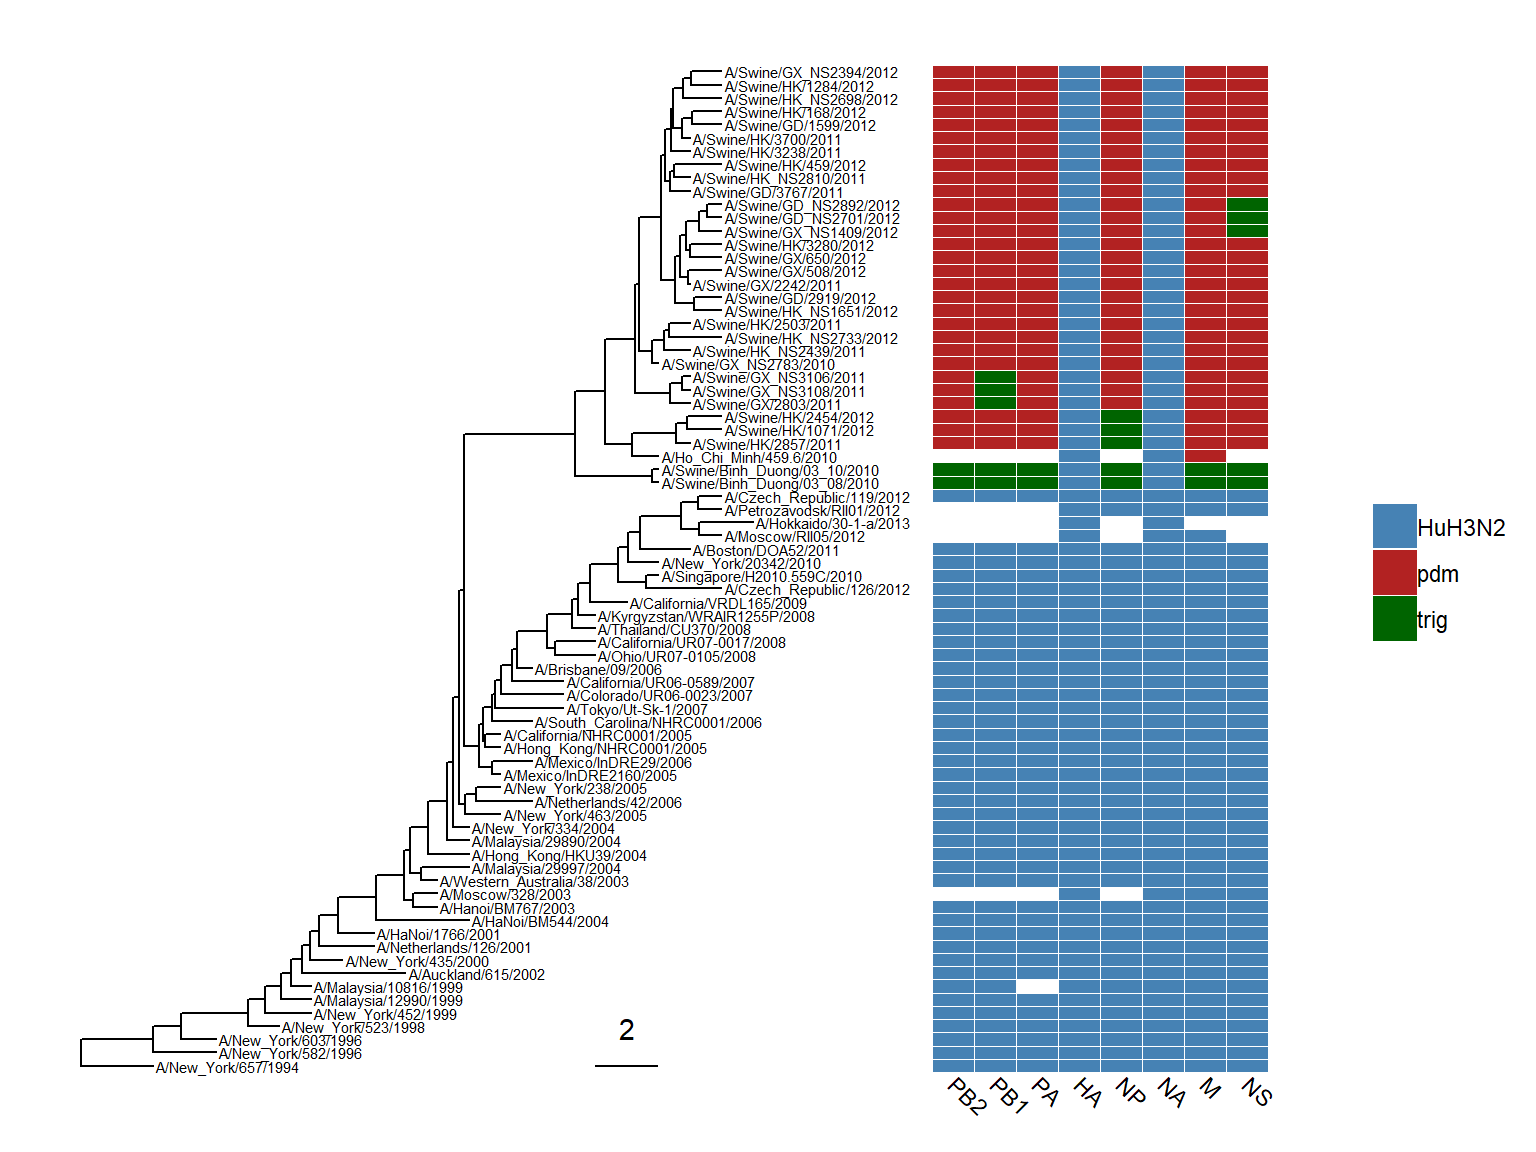
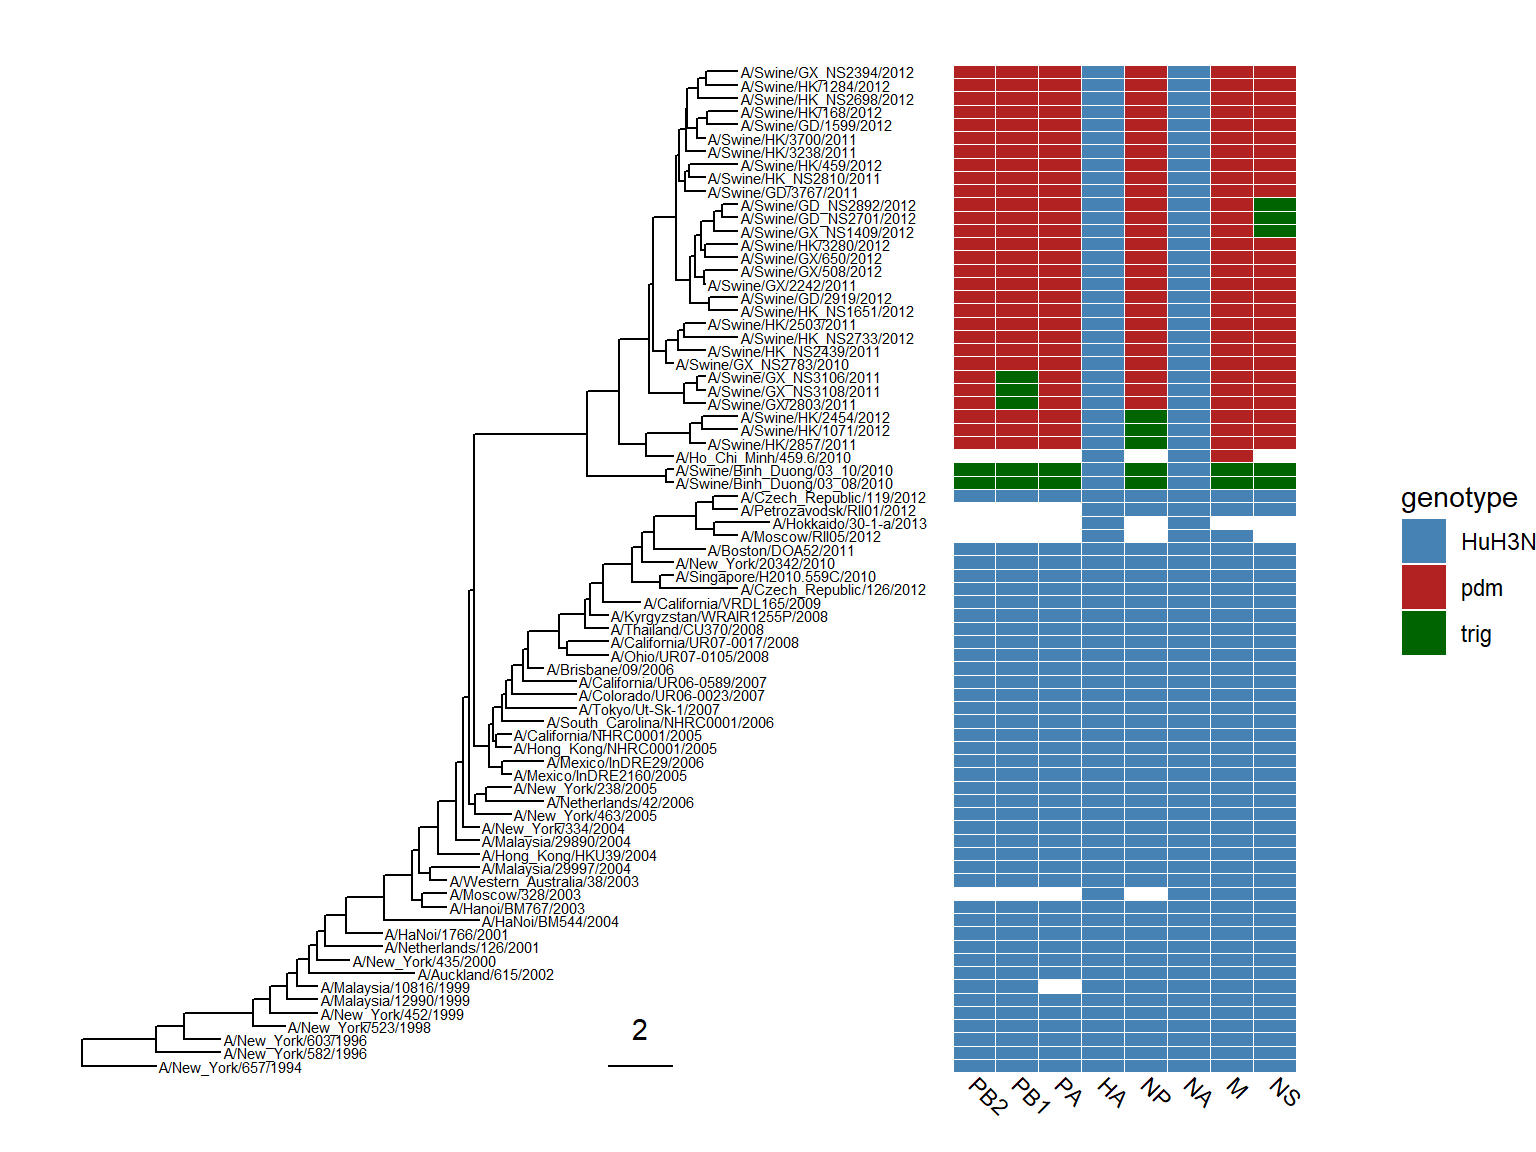
legend title

diff --git a/docs/chapter7.html b/docs/chapter7.html
@@ -508,17 +508,18 @@ genotype &lt;-<span class="st"> </span><span class="kw">read.table</span>(genoty
 <span class="kw">colnames</span>(genotype) &lt;-<span class="st"> </span><span class="kw">sub</span>(<span class="st">&quot;</span><span class="ch">\\</span><span class="st">.$&quot;</span>, <span class="st">&quot;&quot;</span>, <span class="kw">colnames</span>(genotype))
 p &lt;-<span class="st"> </span><span class="kw">ggtree</span>(beast_tree, <span class="dt">mrsd=</span><span class="st">&quot;2013-01-01&quot;</span>) <span class="op">+</span><span class="st"> </span><span class="kw">geom_treescale</span>(<span class="dt">x=</span><span class="dv">2008</span>, <span class="dt">y=</span><span class="dv">1</span>, <span class="dt">offset=</span><span class="dv">2</span>)
 p &lt;-<span class="st"> </span>p <span class="op">+</span><span class="st"> </span><span class="kw">geom_tiplab</span>(<span class="dt">size=</span><span class="dv">2</span>)
-<span class="kw">gheatmap</span>(p, genotype, <span class="dt">offset=</span><span class="dv">5</span>, <span class="dt">width=</span><span class="fl">0.5</span>, <span class="dt">font.size=</span><span class="dv">3</span>, <span class="dt">colnames_angle=</span><span class="op">-</span><span class="dv">45</span>, <span class="dt">hjust=</span><span class="dv">0</span>) <span class="op">+</span>
-<span class="st">    </span><span class="kw">scale_fill_manual</span>(<span class="dt">breaks=</span><span class="kw">c</span>(<span class="st">&quot;HuH3N2&quot;</span>, <span class="st">&quot;pdm&quot;</span>, <span class="st">&quot;trig&quot;</span>), <span class="dt">values=</span><span class="kw">c</span>(<span class="st">&quot;steelblue&quot;</span>, <span class="st">&quot;firebrick&quot;</span>, <span class="st">&quot;darkgreen&quot;</span>))</code></pre>
+<span class="kw">gheatmap</span>(p, genotype, <span class="dt">offset=</span><span class="dv">5</span>, <span class="dt">width=</span><span class="fl">0.5</span>, <span class="dt">font.size=</span><span class="dv">3</span>, 
+        <span class="dt">colnames_angle=</span><span class="op">-</span><span class="dv">45</span>, <span class="dt">hjust=</span><span class="dv">0</span>) <span class="op">+</span>
+<span class="st">    </span><span class="kw">scale_fill_manual</span>(<span class="dt">breaks=</span><span class="kw">c</span>(<span class="st">&quot;HuH3N2&quot;</span>, <span class="st">&quot;pdm&quot;</span>, <span class="st">&quot;trig&quot;</span>), 
+        <span class="dt">values=</span><span class="kw">c</span>(<span class="st">&quot;steelblue&quot;</span>, <span class="st">&quot;firebrick&quot;</span>, <span class="st">&quot;darkgreen&quot;</span>), <span class="dt">name=</span><span class="st">&quot;genotype&quot;</span>)</code></pre>
 <p><img src="treedata_files/figure-html/unnamed-chunk-116-1.png" width="768" style="display: block; margin: auto;" /></p>
 <p>The <em>width</em> parameter is to control the width of the heatmap. It supports another parameter <em>offset</em> for controlling the distance between the tree and the heatmap, for instance to allocate space for tip labels.</p>
 <p>For time-scaled tree, as in this example, it’s more often to use <code>x</code> axis by using <code>theme_tree2</code>. But with this solution, the heatmap is just another layer and will change the <code>x</code> axis. To overcome this issue, we implemented <code>scale_x_ggtree</code> to set the x axis more reasonable.</p>
 <!-- User can also use `gplot` and tweak the positions of two plot to align properly. -->
 <pre class="sourceCode r"><code class="sourceCode r">p &lt;-<span class="st"> </span><span class="kw">ggtree</span>(beast_tree, <span class="dt">mrsd=</span><span class="st">&quot;2013-01-01&quot;</span>) <span class="op">+</span><span class="st"> </span><span class="kw">geom_tiplab</span>(<span class="dt">size=</span><span class="dv">2</span>, <span class="dt">align=</span><span class="ot">TRUE</span>, <span class="dt">linesize=</span>.<span class="dv">5</span>) <span class="op">+</span><span class="st"> </span><span class="kw">theme_tree2</span>()
-pp &lt;-<span class="st"> </span>(p <span class="op">+</span><span class="st"> </span><span class="kw">scale_y_continuous</span>(<span class="dt">expand=</span><span class="kw">c</span>(<span class="dv">0</span>, <span class="fl">0.3</span>))) <span class="op">%&gt;%</span>
-<span class="st">    </span><span class="kw">gheatmap</span>(genotype, <span class="dt">offset=</span><span class="dv">8</span>, <span class="dt">width=</span><span class="fl">0.6</span>, <span class="dt">colnames=</span><span class="ot">FALSE</span>) <span class="op">%&gt;%</span>
-<span class="st">        </span><span class="kw">scale_x_ggtree</span>()
-pp <span class="op">+</span><span class="st"> </span><span class="kw">theme</span>(<span class="dt">legend.position=</span><span class="st">&quot;right&quot;</span>)</code></pre>
+(p <span class="op">+</span><span class="st"> </span><span class="kw">scale_y_continuous</span>(<span class="dt">expand=</span><span class="kw">c</span>(<span class="dv">0</span>, <span class="fl">0.3</span>))) <span class="op">%&gt;%</span>
+<span class="st">    </span><span class="kw">gheatmap</span>(genotype, <span class="dt">offset=</span><span class="dv">8</span>, <span class="dt">width=</span><span class="fl">0.6</span>, <span class="dt">colnames=</span><span class="ot">FALSE</span>, <span class="dt">legend_title=</span><span class="st">&quot;genotype&quot;</span>) <span class="op">%&gt;%</span>
+<span class="st">        </span><span class="kw">scale_x_ggtree</span>()</code></pre>
 <p><img src="treedata_files/figure-html/unnamed-chunk-117-1.png" width="768" style="display: block; margin: auto;" /></p>
 <div id="visualize-tree-with-multiple-associated-matrix" class="section level3">
 <h3><span class="header-section-number">7.1.1</span> Visualize tree with multiple associated matrix</h3>

diff --git a/docs/faq.html b/docs/faq.html
@@ -349,7 +349,7 @@ As these variable is not available in your <code>dataset</code>, you will get th
 <h2><span class="header-section-number">A.4</span> Text &amp; Label</h2>
 <div id="faq-label-truncated" class="section level3">
 <h3><span class="header-section-number">A.4.1</span> Tip label truncated</h3>
-<p><a href="https://CRAN.R-project.org/package=ggplot2">ggplot2</a> can’t auto adjust <code>xlim</code> based on added text.</p>
+<p><a href="https://CRAN.R-project.org/package=ggplot2">ggplot2</a> can’t auto adjust <code>xlim</code> based on added text<a href="#fn15" class="footnote-ref" id="fnref15"><sup>15</sup></a>.</p>
 <pre class="sourceCode r"><code class="sourceCode r"><span class="kw">library</span>(ggtree)
 <span class="co">## example tree from https://support.bioconductor.org/p/72398/</span>
 tree&lt;-<span class="kw">read.tree</span>(<span class="dt">text=</span><span class="st">&quot;(Organism1.006G249400.1:0.03977,(Organism2.022118m:0.01337,(Organism3.J34265.1:0.00284,Organism4.G02633.1:0.00468)0.51:0.0104):0.02469);&quot;</span>)
@@ -435,7 +435,7 @@ x &lt;-<span class="st"> </span><span class="kw">rtree</span>(<span class="dv">5
 </div>
 <div id="faq-enlarge-center-space" class="section level2">
 <h2><span class="header-section-number">A.6</span> Enlarge center space in circular/fan layout tree</h2>
-<p>This question was asked several times<a href="#fn15" class="footnote-ref" id="fnref15"><sup>15</sup></a>, and a published example can be found in <a href="https://www.ncbi.nlm.nih.gov/pubmed/27605062" class="uri">https://www.ncbi.nlm.nih.gov/pubmed/27605062</a>. Increasing percentage of center white space in circular tree is useful to avoid overlapping tip labels and to increase readibility of the tree by moving all nodes and branches further out. This can be done simply by using <code>+xlim()</code> to allocate more space, just like in Figure <a href="chapter4.html#fig:layout2">4.3</a>G, or assign a long root branch that is similar to the “Root Length” parameter in FigTree.</p>
+<p>This question was asked several times<a href="#fn16" class="footnote-ref" id="fnref16"><sup>16</sup></a>, and a published example can be found in <a href="https://www.ncbi.nlm.nih.gov/pubmed/27605062" class="uri">https://www.ncbi.nlm.nih.gov/pubmed/27605062</a>. Increasing percentage of center white space in circular tree is useful to avoid overlapping tip labels and to increase readibility of the tree by moving all nodes and branches further out. This can be done simply by using <code>+xlim()</code> to allocate more space, just like in Figure <a href="chapter4.html#fig:layout2">4.3</a>G, or assign a long root branch that is similar to the “Root Length” parameter in FigTree.</p>
 <pre class="sourceCode r"><code class="sourceCode r"><span class="kw">set.seed</span>(<span class="dv">1982</span>)
 tree &lt;-<span class="st"> </span><span class="kw">rtree</span>(<span class="dv">30</span>)
 <span class="kw">plot_grid</span>(
@@ -451,7 +451,8 @@ tree &lt;-<span class="st"> </span><span class="kw">rtree</span>(<span class="dv
 <ol start="14">
 <li id="fn14"><p><a href="https://groups.google.com/d/msg/bioc-ggtree/hViM6vRZF94/MsZT8qRgBwAJ" class="uri">https://groups.google.com/d/msg/bioc-ggtree/hViM6vRZF94/MsZT8qRgBwAJ</a>
 and <a href="https://github.com/GuangchuangYu/ggtree/issues/106" class="uri">https://github.com/GuangchuangYu/ggtree/issues/106</a><a href="faq.html#fnref14" class="footnote-back">↩</a></p></li>
-<li id="fn15"><p><a href="https://groups.google.com/d/msg/bioc-ggtree/gruC4FztU8I/mwavqWCXAQAJ" class="uri">https://groups.google.com/d/msg/bioc-ggtree/gruC4FztU8I/mwavqWCXAQAJ</a>, <a href="https://groups.google.com/d/msg/bioc-ggtree/UoGQekWHIvw/ZswUUZKSGwAJ" class="uri">https://groups.google.com/d/msg/bioc-ggtree/UoGQekWHIvw/ZswUUZKSGwAJ</a> and <a href="https://github.com/GuangchuangYu/ggtree/issues/95" class="uri">https://github.com/GuangchuangYu/ggtree/issues/95</a><a href="faq.html#fnref15" class="footnote-back">↩</a></p></li>
+<li id="fn15"><p><a href="https://twitter.com/hadleywickham/status/600280284869697538" class="uri">https://twitter.com/hadleywickham/status/600280284869697538</a><a href="faq.html#fnref15" class="footnote-back">↩</a></p></li>
+<li id="fn16"><p><a href="https://groups.google.com/d/msg/bioc-ggtree/gruC4FztU8I/mwavqWCXAQAJ" class="uri">https://groups.google.com/d/msg/bioc-ggtree/gruC4FztU8I/mwavqWCXAQAJ</a>, <a href="https://groups.google.com/d/msg/bioc-ggtree/UoGQekWHIvw/ZswUUZKSGwAJ" class="uri">https://groups.google.com/d/msg/bioc-ggtree/UoGQekWHIvw/ZswUUZKSGwAJ</a> and <a href="https://github.com/GuangchuangYu/ggtree/issues/95" class="uri">https://github.com/GuangchuangYu/ggtree/issues/95</a><a href="faq.html#fnref16" class="footnote-back">↩</a></p></li>
 </ol>
 </div>
             </section>

diff --git a/docs/references.html b/docs/references.html
@@ -482,6 +482,7 @@ code span.wa { color: #60a0b0; font-weight: bold; font-style: italic; } /* Warni
 
 
 
+
             </section>
 
           </div>
